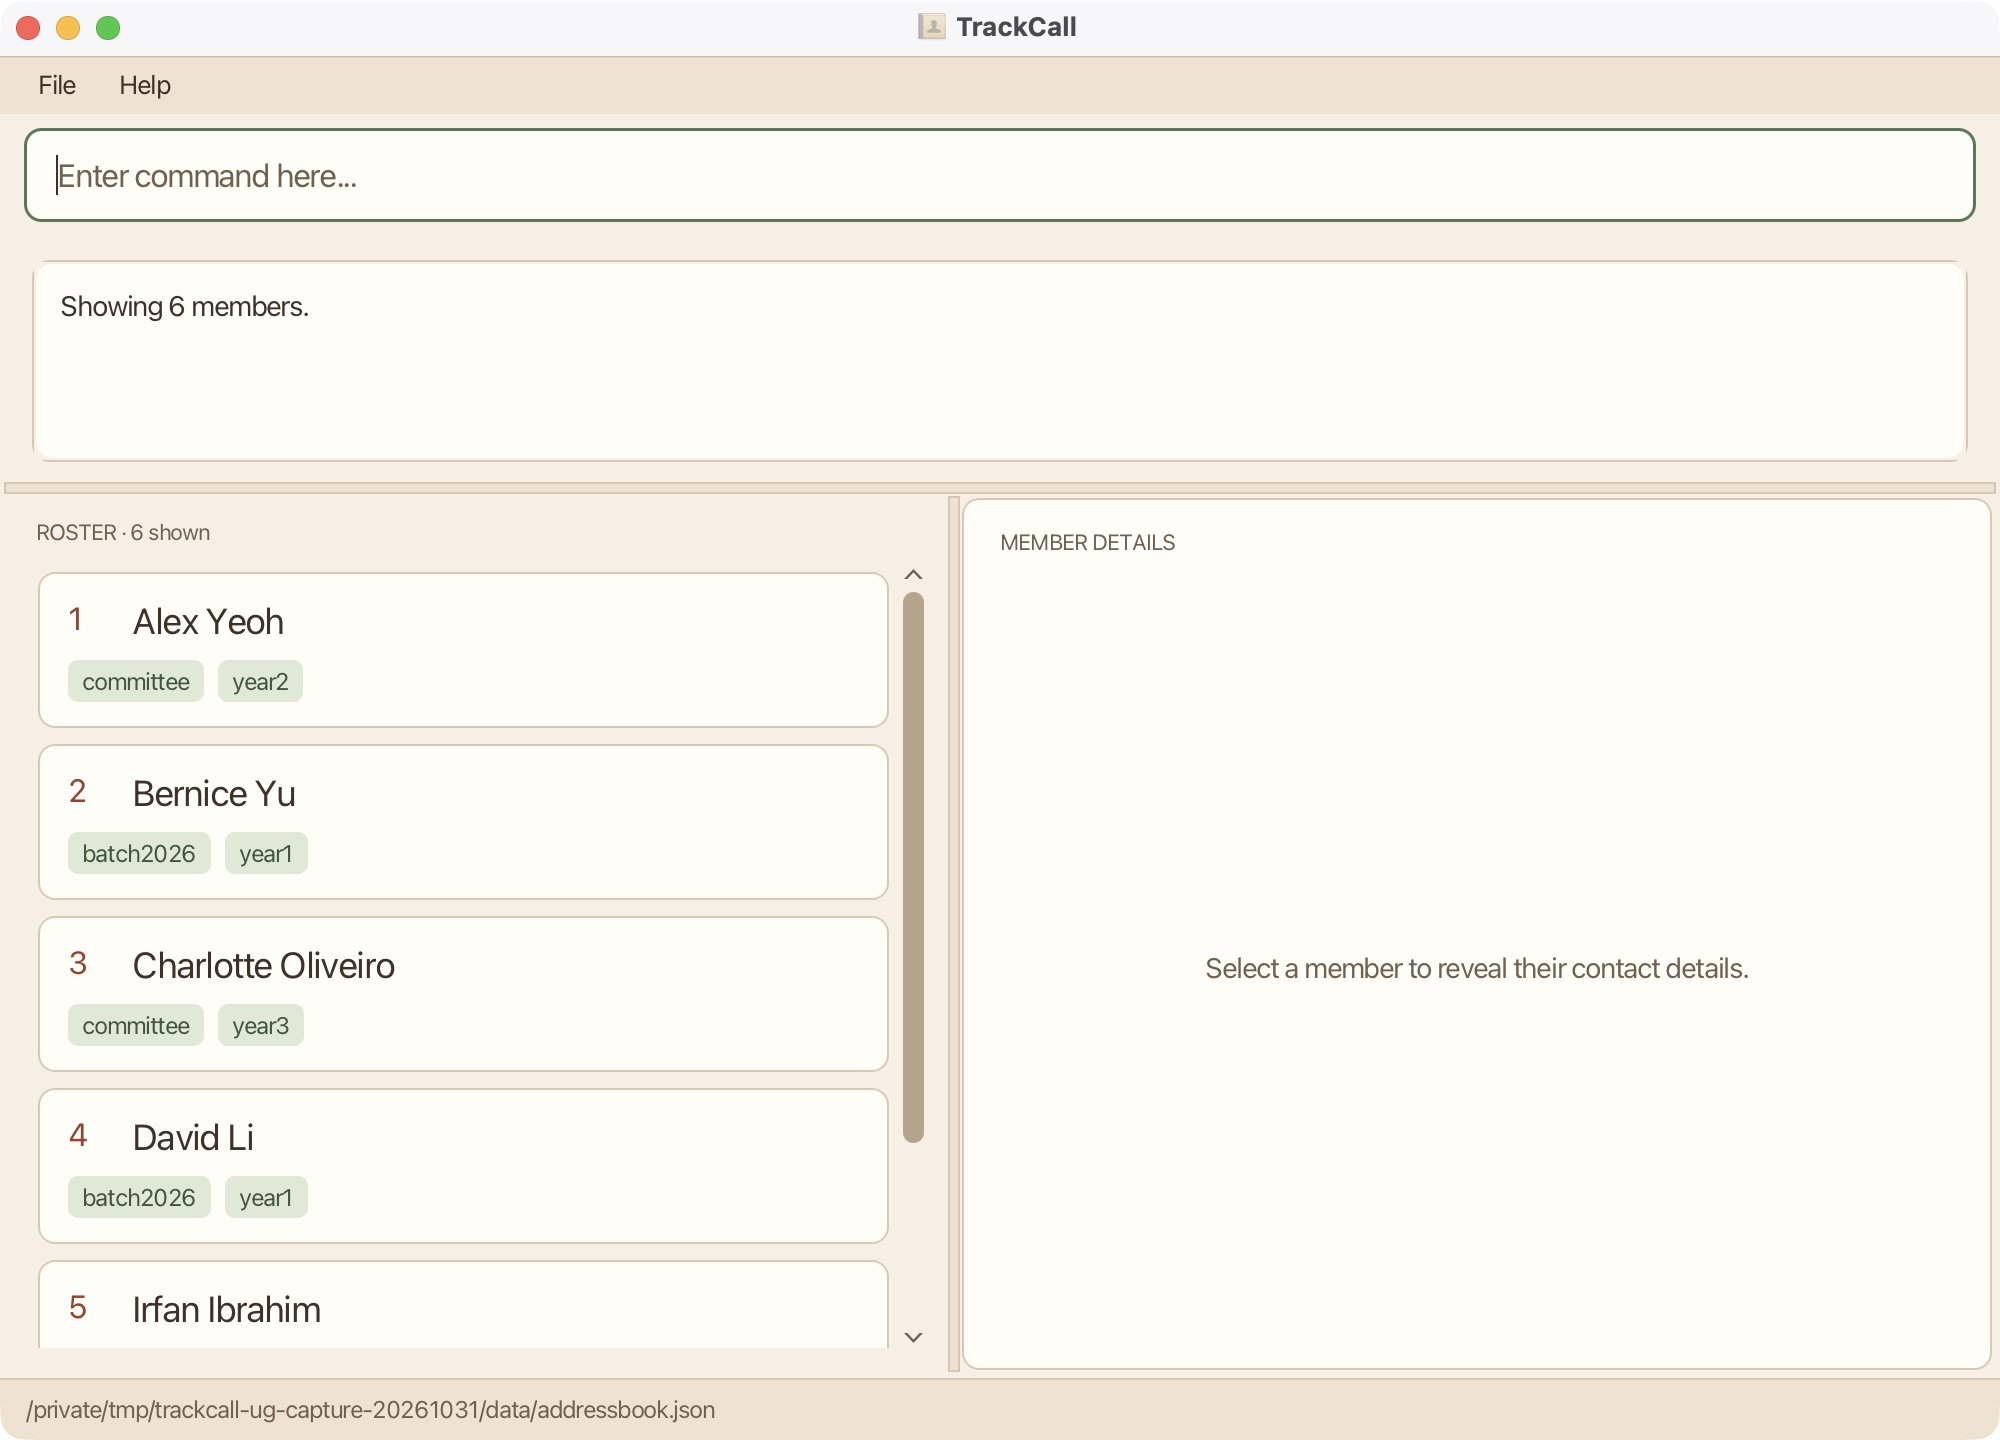
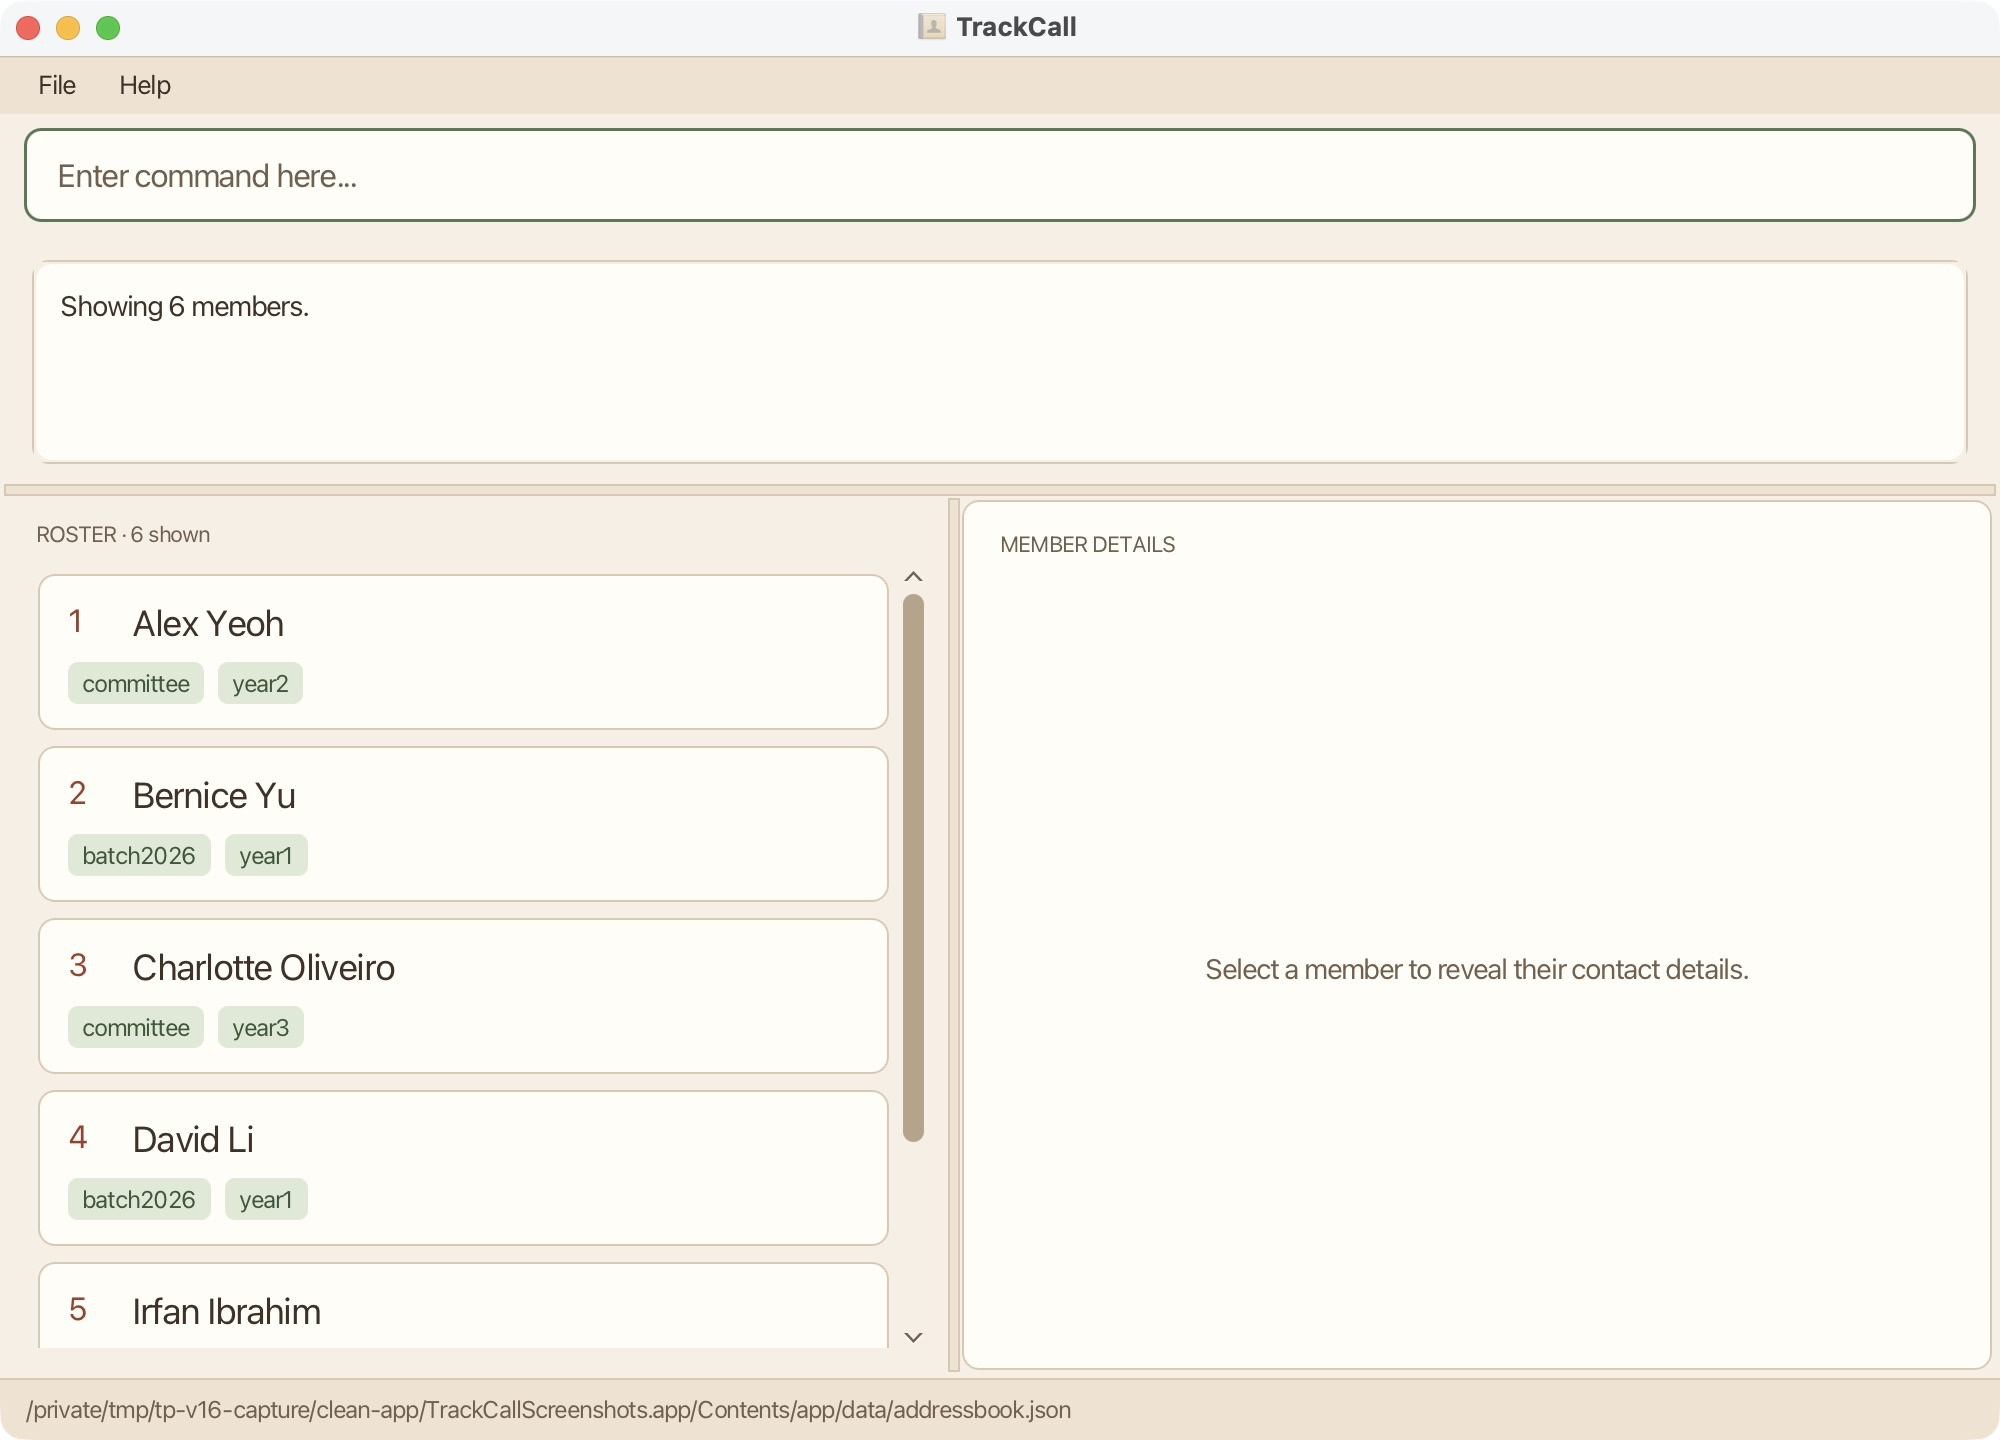
Refresh screenshots from the v1.6 release
Recapture the guide illustrations from the published final JAR so
readers see the current product. Preserve native PNG originals,
record image checksums and scenarios, and align screenshot guidance.

Keep the executable, application source and release tag unchanged.

Closes AY2627S1-CS2103T-W12-1/tp#426

diff --git a/docs/releases/v1.6/RELEASE_NOTES.md b/docs/releases/v1.6/RELEASE_NOTES.md
@@ -34,12 +34,21 @@ Use **Java 25** and follow the [Quick start](../../UserGuide.html#quick-start).
 
 1. Back up your existing application folder, including its `data` folder.
 2. Put `trackcall.jar` in a writable folder. Keep the JAR and data together when moving an installation.
-3. Check `java -version` reports Java 25, then run `java -ea -jar trackcall.jar` from a terminal.
+3. Check `java -version` reports Java 25, then run `java -jar trackcall.jar` from a terminal.
 4. Use `help` or `help COMMAND` for offline instructions. If recovery opens, follow its choices;
    do not discard the preserved original merely to bypass validation.
 
 The GitHub release contains the executable, its SHA-256 checksum and a validation record identifying
 its exact source revision. Verify the downloaded file against that checksum.
+
+## Screenshot refresh — 3 November 2026
+
+All 23 User Guide screenshots and the website interface image were recaptured from the published
+v1.6 JAR at source `3b33b8c306b00959ccd13ba60cceb7eaeb5463b9` using Java 25.0.4 on macOS.
[1 lines of base64/hex data omitted]
+The [capture manifest](../../images/user-guide/features/capture-manifest.json) records the original PNGs,
+JPEG derivatives and scenarios. Deletion and clearing images show pending prompts that were cancelled;
+the exit image shows `help exit`, rather than execution of `exit`.
 
 ## Guides and remaining limits
 

diff --git a/docs/Documentation.md b/docs/Documentation.md
@@ -58,10 +58,14 @@ pageNav: 6
 
 ### Application screenshots
 
-- Use a **1600 × 1200** white canvas, a centered window, proportional scaling, and the same soft shadow.
-- Keep the title bar and status bar visible. Keep original captures alongside framed images.
-- Use the framing recipe in `docs/scripts/release-gallery-frames.json` and `release-gallery-frames.html`.
-- Export PNG files and check their dimensions.
+- For the current User Guide, keep the complete native window and its natural aspect ratio; the page supplies
+  the consistent image frame. Keep the title bar and, for the main window, the status bar visible.
+- Store original PNG captures in `docs/images/user-guide/features/raw/` beside the JPEG derivatives.
+  Do not crop, retouch or regenerate application text, fields or results.
+- Update `capture-manifest.json` with the release JAR checksum, source revision, capture date,
+  scenarios and checksums for both formats. Visually inspect every image against its caption.
+- Historical v1.3–v1.5 galleries use a **1600 × 1200** white canvas, proportional scaling and a soft shadow.
+  Their framing recipe remains in `docs/scripts/release-gallery-frames.json` and `release-gallery-frames.html`.
 - When updating published screenshots or release notes, keep website assets, GitHub release assets,
   and the SHA-256 manifest in sync. Preserve the release executable and its original validation history.
 

diff --git a/docs/UserGuide.md b/docs/UserGuide.md
@@ -61,6 +61,10 @@ Try the examples in this guide on them, then use `clear /all` to remove them whe
 
 Screenshots use fictional sample members. Each caption names the command and the visible result; your counts and member numbers depend on your roster. Select any screenshot to open it at full size.
 
+All 23 screenshots were recaptured on **3 November 2026** using the published **v1.6 JAR**.
+The [capture manifest](images/user-guide/features/capture-manifest.json) records the exact source revision,
+JAR checksum, original PNG checksums and screenshot scenarios.
+
 <figure class="ug-figure">
 <a class="ug-screenshot" href="images/user-guide/features/interface.jpg" aria-label="Open full-size screenshot: TrackCall with Bernice selected and her contact details displayed">
 <img src="images/user-guide/features/interface.jpg" alt="TrackCall with Bernice selected and her contact details displayed" loading="lazy">
